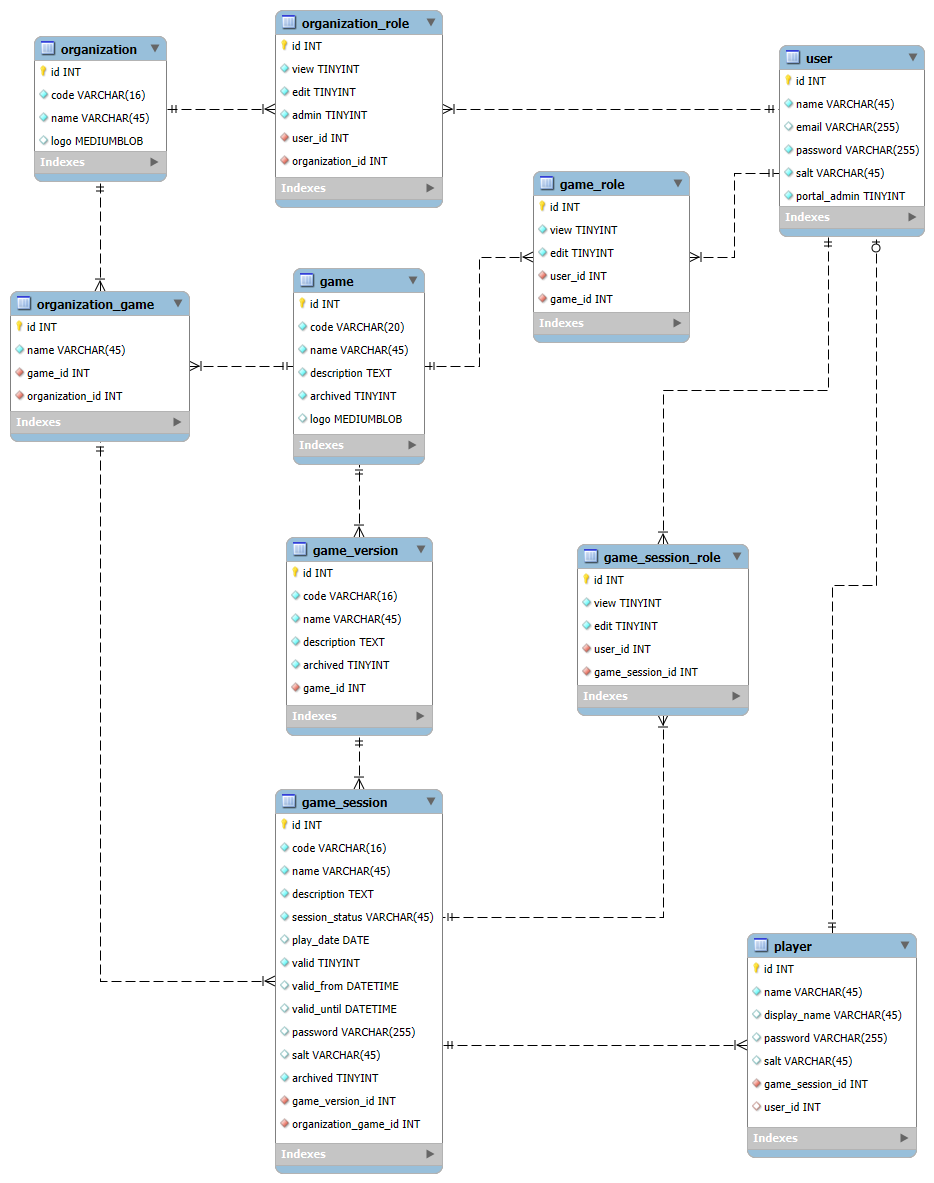
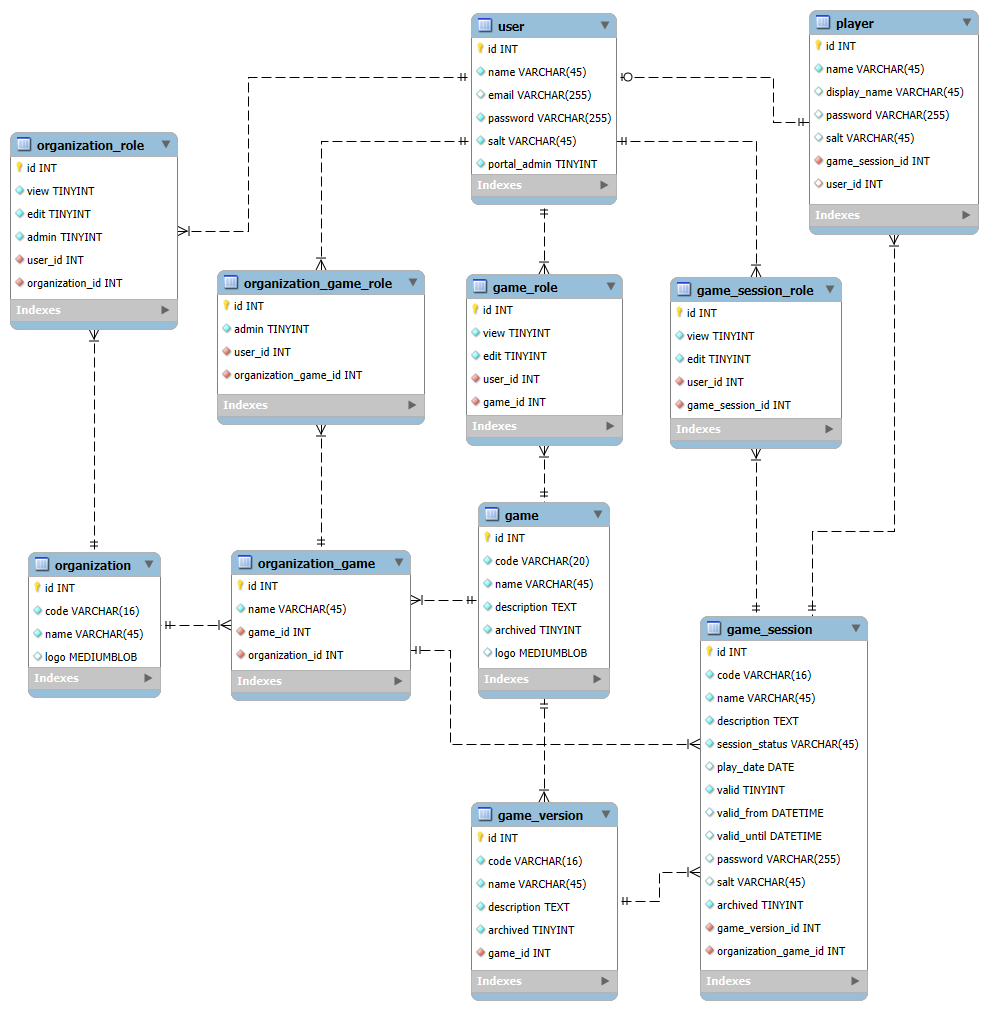
Issue #24. Update session admin and facilitator tasks

diff --git a/doc/4-architecture/database-design.md b/doc/4-architecture/database-design.md
@@ -15,7 +15,8 @@ __Changelog:__
  - 2025-08-29 - Add `timezone_offset` to the location [Issue #36](https://github.com/averbraeck/gscg-design/issues/36).
  - 2025-08-29 - Improve clarity of game terms in requirements [Issue #21](https://github.com/averbraeck/gscg-design/issues/21).
  - 2025-08-29 - Clarify `player` versus `user` in requirements [Issue #25](https://github.com/averbraeck/gscg-design/issues/25).
- - 2025-08-29 - Requirement missing for debriefing by facilitator [Issue #28](https://github.com/averbraeck/gscg-design/issues/28).
+ - 2025-08-29 - Requirement added for debriefing by facilitator [Issue #28](https://github.com/averbraeck/gscg-design/issues/28).
+ - 2025-08-29 - Add `organization_game_role` table to the database [Issue #24](https://github.com/averbraeck/gscg-design/issues/24).
  
 
 ## 4.1.1. High-level database design
@@ -212,7 +213,7 @@ Below, all requirements of GSCG are checked against the availability of the data
 - FC1.4 The portal administrator must be able to reset the password of a user
   <br>The `user.password` field is in the database.
 - FC1.5 The portal administrator must be able to change the access rights of a user (* see below)
-  <br>The `organization_role`, `game_role` and `game_session_role` tables in the database define the access rights of a user.
+  <br>The `organization_role`, `game_role`, `organization_game_role` and `game_session_role` tables in the database define the access rights of a user.
 - FC1.6 The portal administrator must be able to create a new game
   <br>The `game` table is in the database.
 - FC1.7 The portal administrator must be able to delete a game that has no game versions
@@ -332,7 +333,7 @@ The non-functional requirements have no effect on the database.
 
 ### 4.1.6.4. Session administration.
 
-- General: the `game_session_role` table with the boolean `edit` field makes a `user` a session administrator.
+- General: the `organization_game_role` table with the boolean `edit` field makes a `user` a session administrator.
 - FC4.1 The session administrator must be able to change their own password to enter the GSCG portal
   <br>The `user.password` field is in the database.
 - FC4.2 The session administrator must be able to create a user
@@ -343,8 +344,8 @@ The non-functional requirements have no effect on the database.
   <br>The `user.password` field is in the database.
 - FC4.5 The session administrator must be able to change the access rights of a user
   <br>The `game_session_role` tables in the database define the access rights of a user.
-- FC4.6 The session administrator must be able to create a game session
-  <br>This is not logical from the database right now. See NOTE.
+- FC4.6 The organization administrator for a game must be able to create a game session
+  <br>The table `organization_game_role` defines users who can create game sessions, and appoint the session administrator, after which the session administrator can fill in the further details. 
 - FC4.7 The session administrator must be able to change the dates of a game session
   <br>A `game_session` has fields `play_date`, `valid_from` and `valid_until` (all `DATETIME` fields).
 - FC4.8 The session administrator must be able to delete a game session that has not yet been played
@@ -364,20 +365,18 @@ The non-functional requirements have no effect on the database.
 - FC4.15 The session administrator must be able to logout from the portal
   <br>No consequences for database.
 - FC4.16 The session administrator must be able to set or change the allowable strategies that can be chosen by the players
+  <br>A table is missing here. See NOTE.
 
 The non-functional requirements have no effect on the database.
-
-> [!NOTE]
-> **FC4.6**: It is not logical for a session admin to be able to create a session in the database, since the session admin is allocated to individual sessions through the `game_session_role` table. Non-existent game sessions are not linked and can therefore not be created. This has to be solved, probably in the `organization_role` table, or in a new table `organization_game_role`.
 
 > [!NOTE]
 > **FC4.10**: A field `self_registration` should be added to the `game_session`.
 
 > [!NOTE]
-> **FO4.12**: Maybe a table `organization_game_role` should be added to allow to appoint session administrators for a certain `game` from an `organization`.
+> **FO4.13**: The fields `edit` and `view` for the `same_session_role` are not descriptive enough to indicate who is a facilitator for a session. Maybe change the fields to `facilitator` and `observer`?
 
 > [!NOTE]
-> **FO4.13**: The fields `edit` and `view` for the `same_session_role` are not descriptive enough to indicate who is a facilitator for a session. Maybe change the fields to `facilitator` and `observer`?
+> **FC4.16**: A table for linking allowable player strategies to a game session is missing.
 
 
 ### 4.1.6.5. Session facilitation

diff --git a/doc/3-requirements/requirements.md b/doc/3-requirements/requirements.md
@@ -135,6 +135,8 @@ Non-functional requirements:
 
 ## 3.4. Session administration
 
+Session administration is responsible for the creation or deletion of game sessions and allocation of a session facilitator, and for doing the administration of the game session.
+
 - FC4.1 The session administrator must be able to change their own password to enter the GSCG portal
 - FC4.2 The session administrator must be able to create a user
 - FC4.3 The session administrator must be able to delete a user
@@ -146,7 +148,7 @@ Non-functional requirements:
 - FC4.9 The session administrator must be able to allocate players to a game session
 - FC4.10 The session administrator must be able to turn on player self registration for a game session
 - FC4.11 The session administrator must be able to generate a batch of anonymous players with login codes and passwords
-- FO4.12 The session administration should present an overview of the sessions with dates and play status
+- FO4.12 The session administrator should present an overview of the sessions with dates and play status
 - FO4.13 The session administration should present an overview of the facilitators and players allocated to a session
 - FC4.14 The session administrator must be able to login to the portal
 - FC4.15 The session administrator must be able to logout from the portal
@@ -160,7 +162,7 @@ Non-functional requirements:
 - NFO4.5 The session administration should have a responsive UI to scale to the device properties. A responsive UI means that the output scales with the window or device size, and does not have a fixed maximum width.
 
 Won't haves:
-- W4.1 The session administrator won't be able to delete a game session that has already been played
+- W4.1 The organization administrator for a game won't be able to delete a game session that has already been played
 
 
 > [!NOTE]
@@ -265,3 +267,5 @@ Non-functional requirements:
 
 > [!NOTE]
 > Note for NFO7.4: it is not required to scale all the way down to a mobile device. The gamedata platform is expected to run on screens with a size of at least 1920x1080 pixels or better.
+
+
